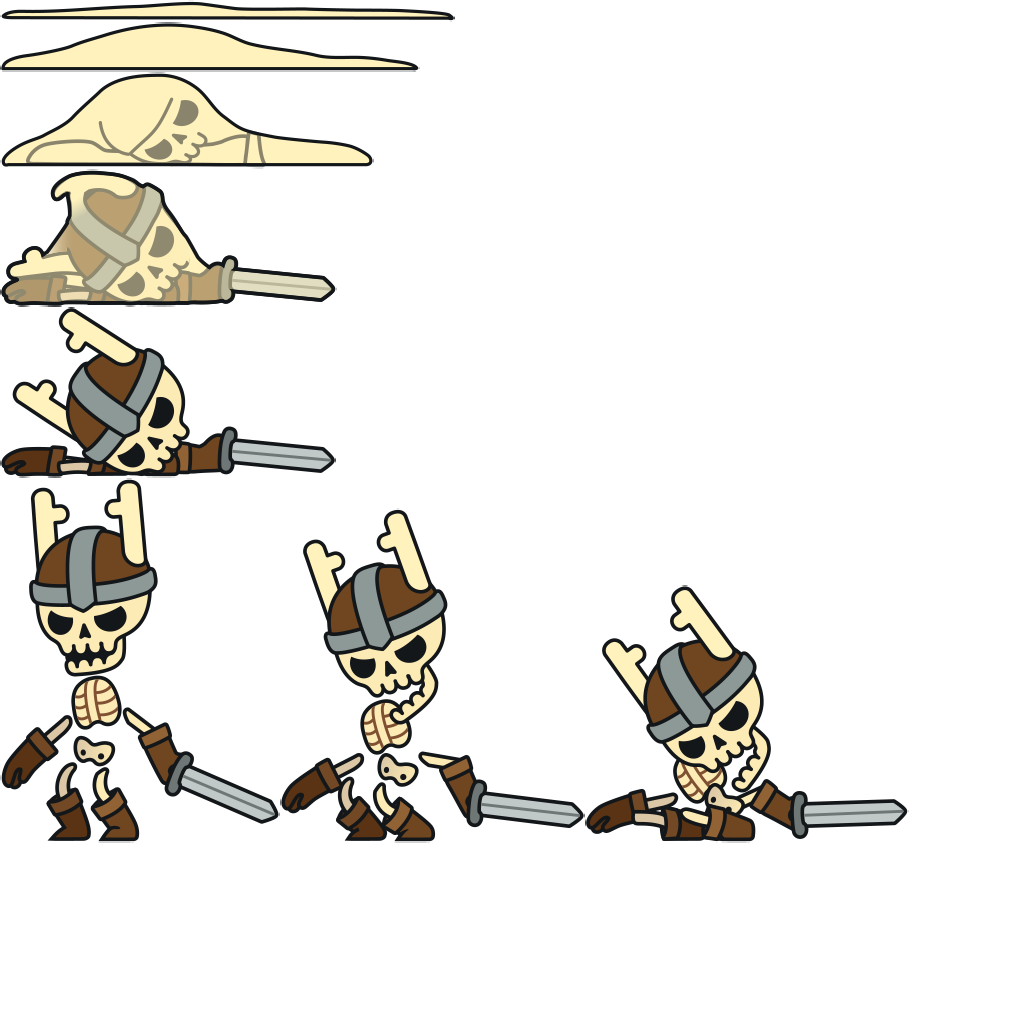
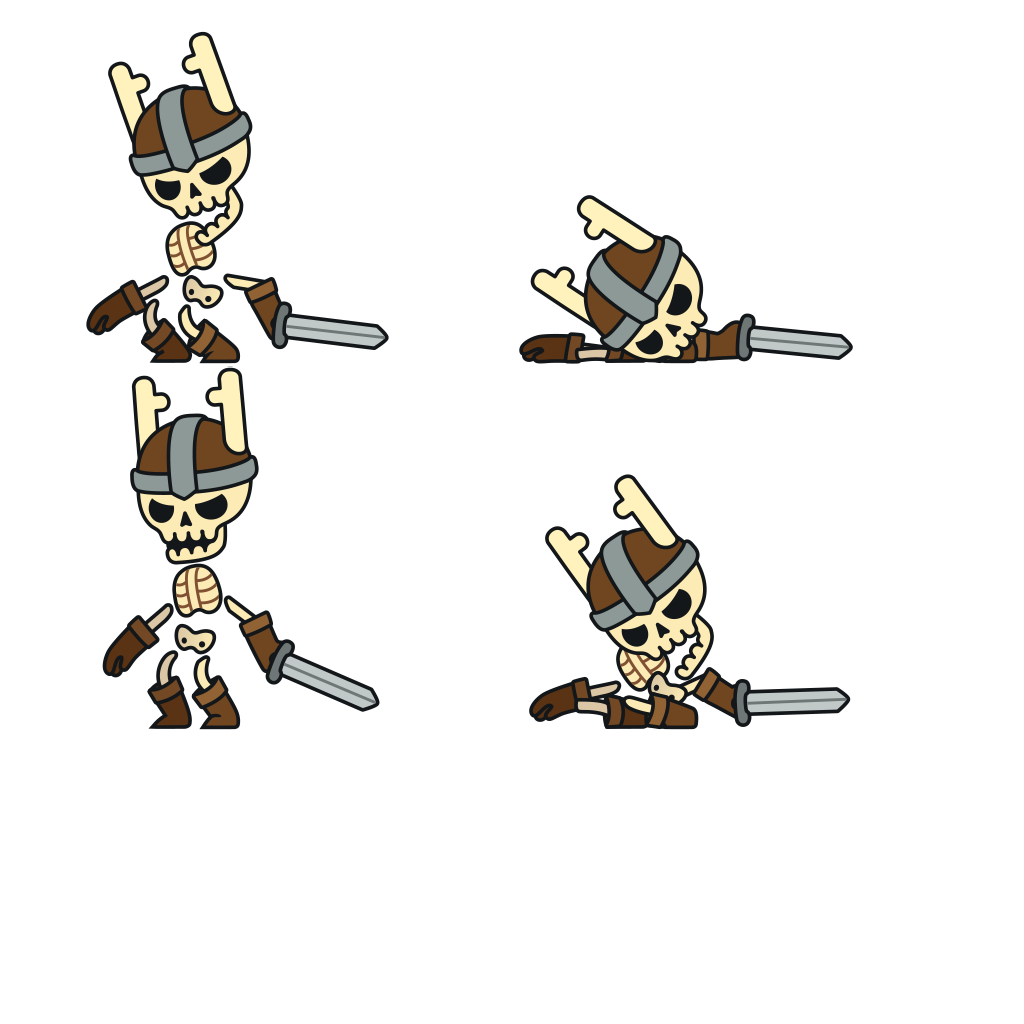
Fixed enemy dying animation. Boss now spawns after 10 or so enemies are dead. Boss spawns only once.

Changed region(s): [[0.0, 0.0, 0.9062, 0.8438], [0.5, 0.1875, 0.8438, 0.375]]

diff --git a/android/testTwo/core/src/com/badlogic/dd/Enemy.java b/android/testTwo/core/src/com/badlogic/dd/Enemy.java
@@ -33,7 +33,7 @@ public class Enemy
     // Variables:
         // Simple Data Types:
     protected int health, maxHealth, attackPower, behavior, updateCount;
-    protected boolean isDead;
+    protected boolean isDead = false;
     protected long prevtime;
     protected float elapsedTime = 0f;
     protected float deathTimer = 0f;
@@ -70,13 +70,13 @@ public class Enemy
     public Enemy(Wall passedinWall)
     {
         int xcordSpawn = MathUtils.random(0, 600);
-        this.isDead = false;
 
         // Frames loaded from texture atlas:
         walkingtextureAtlas = new TextureAtlas(Gdx.files.internal(GameConstants.SkeletonWalkSpriteSheet));
         walkingtextureRegion = walkingtextureAtlas.findRegion("go", 1);
         attacktextureAtlas = new TextureAtlas(Gdx.files.internal(GameConstants.SkeletonAttackSpriteSheet));
         deathtextureAtlas = new TextureAtlas(Gdx.files.internal(GameConstants.SkeletonDeathSpriteSheet));
+        deathTextureRegion = deathtextureAtlas.findRegion("die", 8);
 
         this.setMaxHealth(3);
         this.setCurrentHealth(this.maxHealth);
@@ -284,7 +284,10 @@ public class Enemy
         // Drawing the frame
         enemySprite.draw(batch);
         if (deathAnimation.isAnimationFinished(deathTimer) == true)
+        {
+            //enemySprite.setRegion(deathTextureRegion);
             ok = true;
+        }
         return ok;
     }
 
@@ -306,19 +309,19 @@ public class Enemy
 
         // change direction based on velocity
         // For x-axis:
-        if (velocity.x < 0) {
-            direction = Direction.LEFT;
-        } else {
-            direction = Direction.RIGHT;
-        }
-
-        // Flip sprite when going right.
-        if(direction == Direction.RIGHT){
-            enemySprite.setFlip(true, false);
-        }
-        else {
-            enemySprite.setFlip(false, false);
-        }
+//        if (velocity.x < 0) {
+//            direction = Direction.LEFT;
+//        } else {
+//            direction = Direction.RIGHT;
+//        }
+//
+//        // Flip sprite when going right.
+//        if(direction == Direction.RIGHT){
+//            enemySprite.setFlip(true, false);
+//        }
+//        else {
+//            enemySprite.setFlip(false, false);
+//        }
 
         // For y-axis:
         if (velocity.y < 0) {

diff --git a/android/testTwo/core/src/com/badlogic/dd/GameScreen.java b/android/testTwo/core/src/com/badlogic/dd/GameScreen.java
@@ -118,12 +118,11 @@ public class GameScreen implements Screen {
             enemies.get(index).render(batch, delta);
 
             if (enemies.get(index).isDead == true) {
-                //if(enemies.get(index).playDeathAnimation(batch, delta) == true) {
-                System.out.println("---Enemy " + index + " is dead!---");
-                bosscounter++;
-                //enemies.get(index).dispose();
-                enemies.remove(enemies.get(index));
-                // }
+                if(enemies.get(index).playDeathAnimation(batch, delta) == true) {
+                    System.out.println("---Enemy " + index + " is dead!---");
+                    bosscounter++;
+                    enemies.remove(enemies.get(index));
+                 }
             }
         }
 
